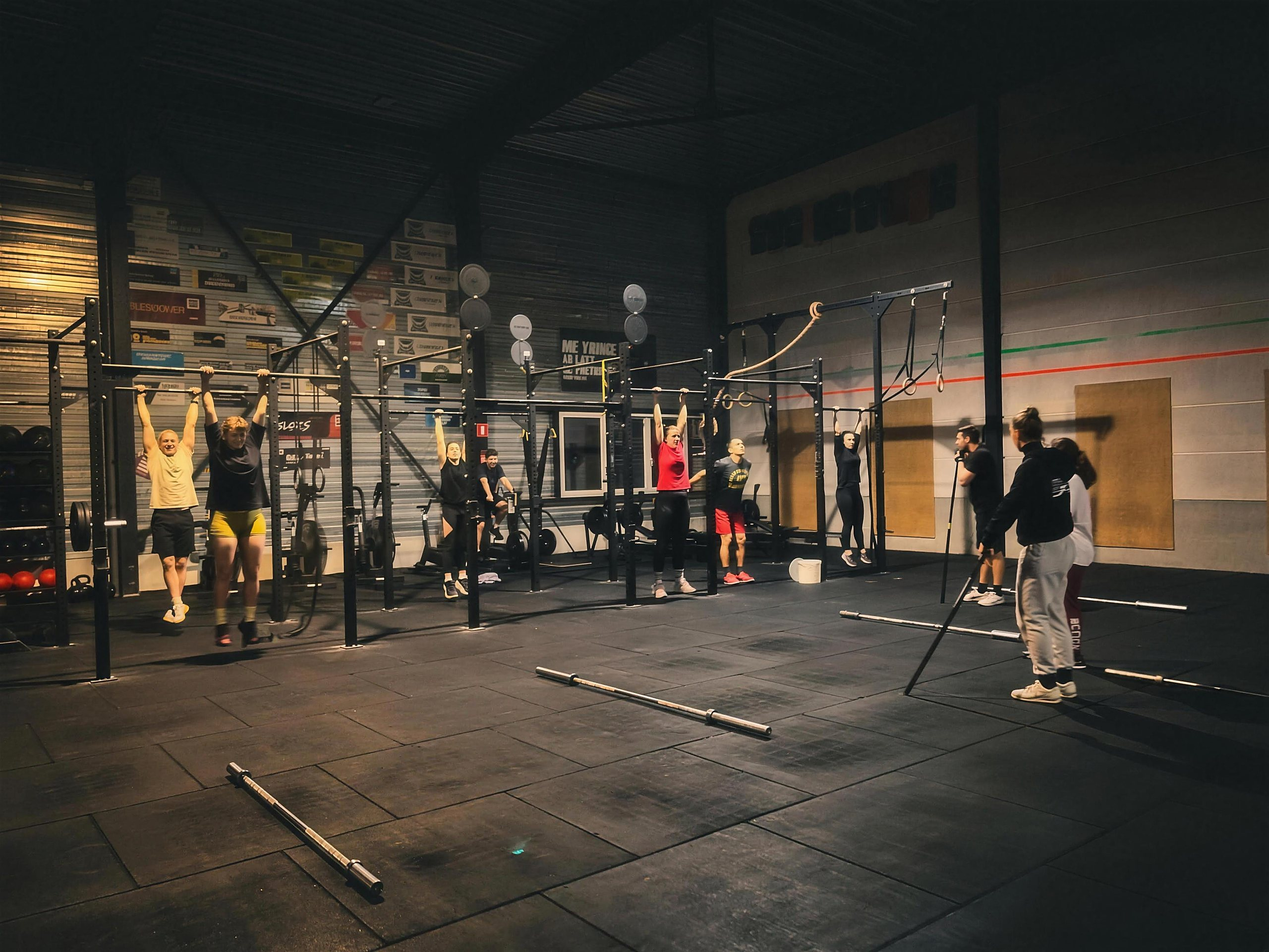
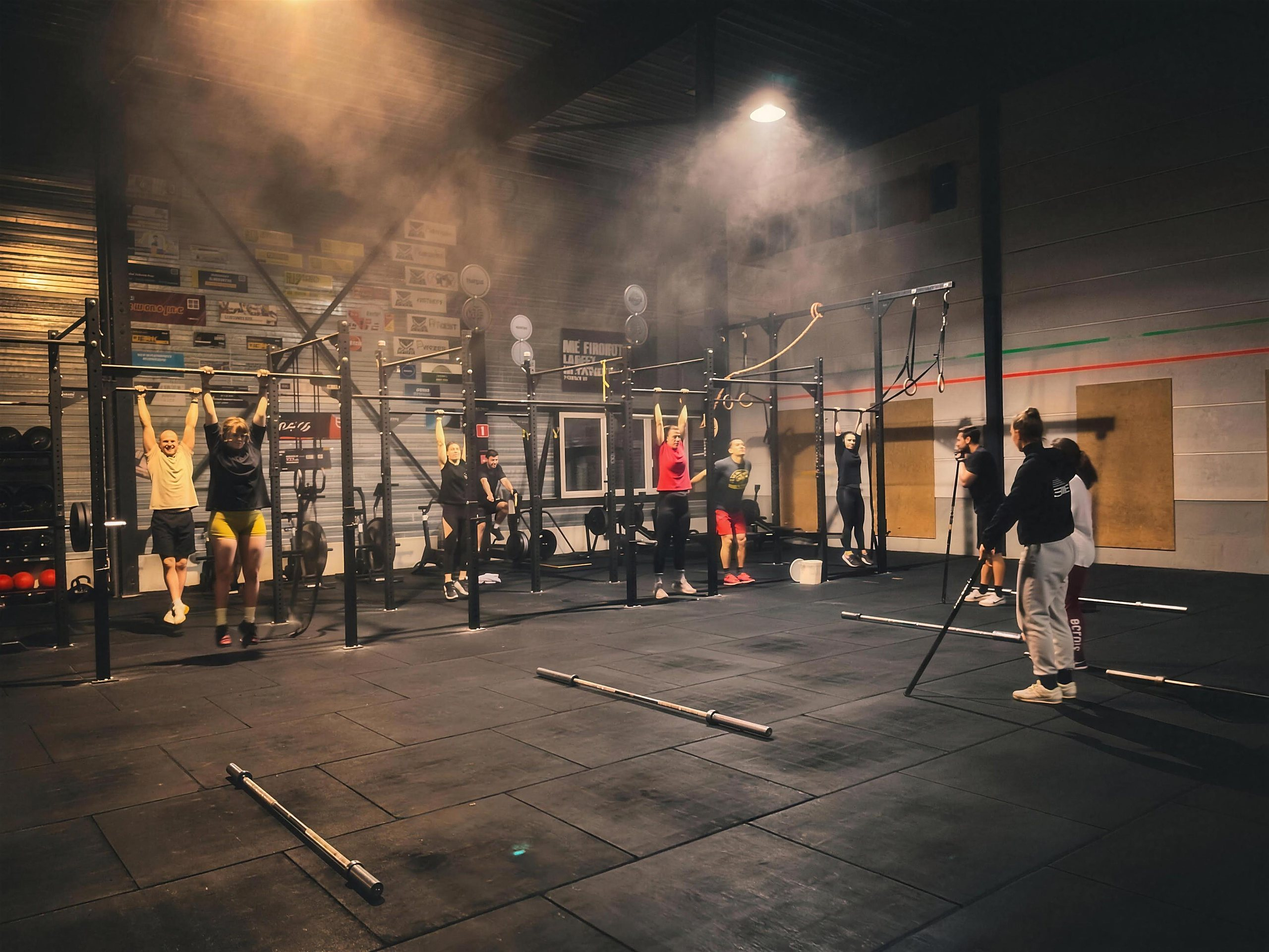
Hero's met pit: chalk-stof en volumetrisch licht, in hun eigen gym
Desktop: brede groepsfoto met haze + lichtbundels. Mobiel: lid boven de
geladen barbell in een lichtbundel vol chalk-stof. Beide via Higgsfield
(alleen atmosfeer/licht toegevoegd; mensen, gym en poses identiek —
gezichten geverifieerd), daarna 4K-upscale + verscherpte export. ?v=5.

diff --git a/index.html b/index.html
@@ -151,8 +151,8 @@
     <section class="hero">
       <div class="hero__media">
         <picture>
-          <source media="(min-width: 880px)" srcset="assets/img/hero-desktop.jpg?v=4" />
-          <img src="assets/img/hero-mobile.jpg?v=4" alt="Leden trainen aan het rig bij Effort in Kapellen" fetchpriority="high" />
+          <source media="(min-width: 880px)" srcset="assets/img/hero-desktop.jpg?v=5" />
+          <img src="assets/img/hero-mobile.jpg?v=5" alt="Leden trainen aan het rig bij Effort in Kapellen" fetchpriority="high" />
         </picture>
       </div>
       <div class="hero__inner">
